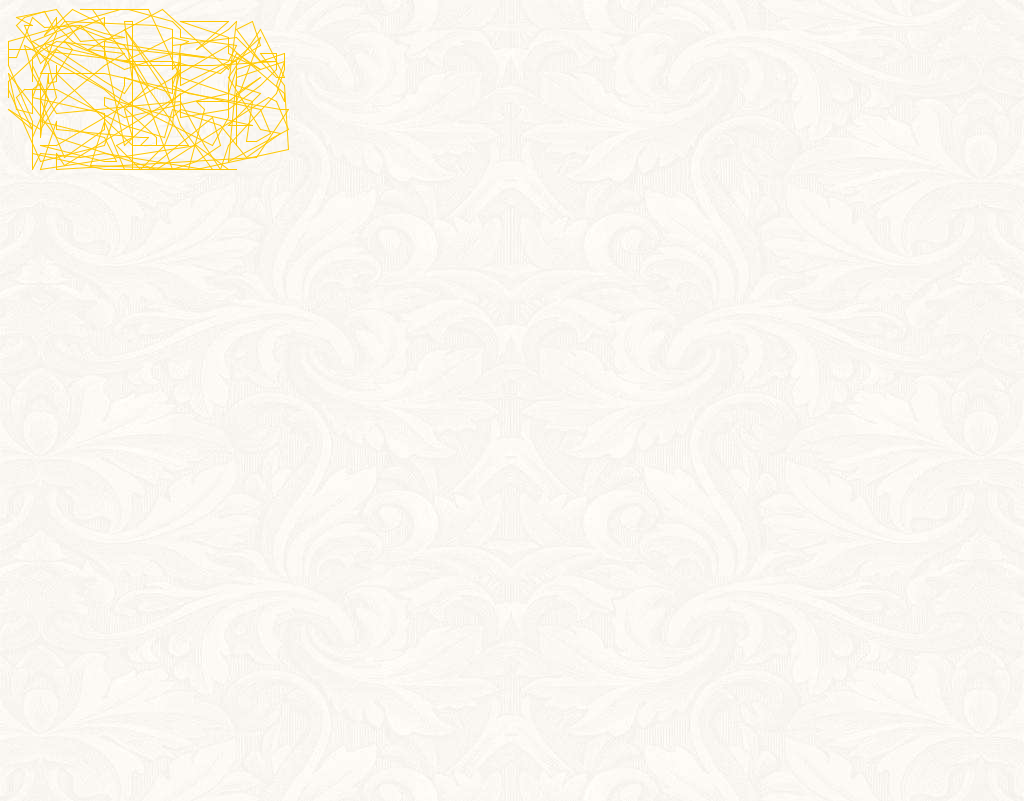
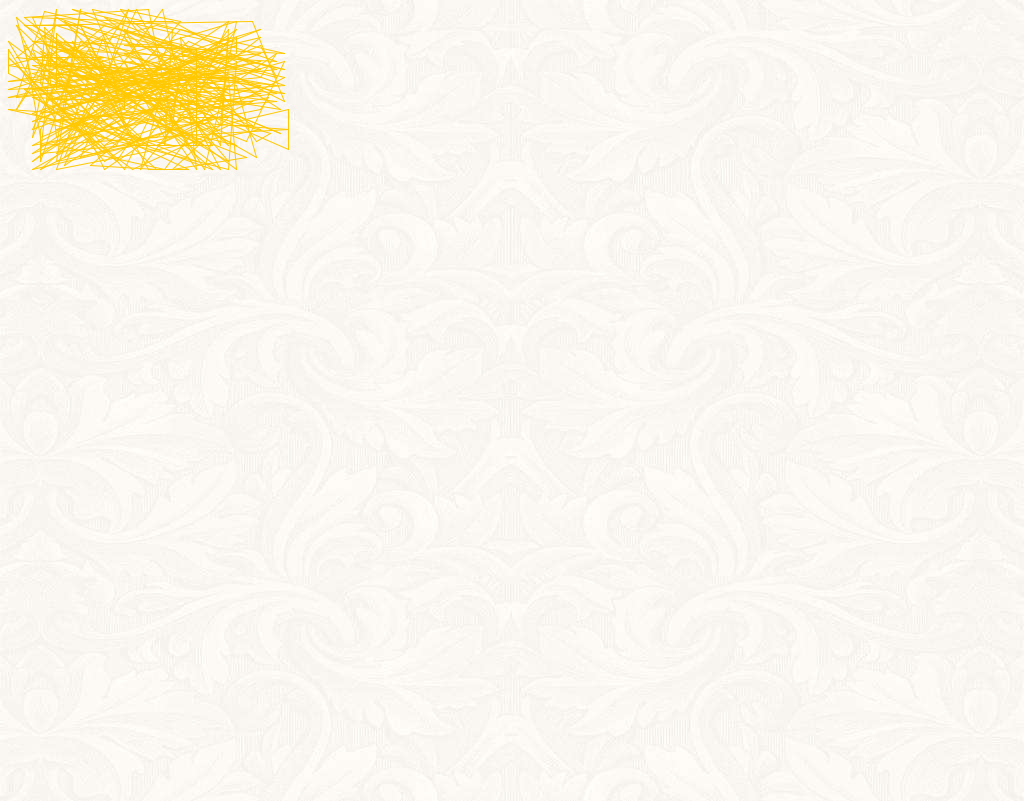
Simulated Annealing finished

Changed region(s): [[0.0, 0.0, 0.2812, 0.2185]]

diff --git a/src/com/rui/java/Algorithms/SimulatedAnnealing/SA_Three_Cooling_Schedules.java b/src/com/rui/java/Algorithms/SimulatedAnnealing/SA_Three_Cooling_Schedules.java
@@ -1,0 +1,68 @@
+package com.rui.java.Algorithms.SimulatedAnnealing;
+
+import com.rui.java.City;
+import com.rui.java.Route;
+
+import java.util.ArrayList;
+
+public class SA_Three_Cooling_Schedules {
+    public static final double CoolingRate = 0.999;
+    public static final double InitTemperature = 3000;
+    public static final double MIN_TEMP = 0.04;
+    public static final int MAX_ITERATION_IN_ONE_TEMPERATURE = 200;
+    double x = 1.001;
+
+    public Route shortestRoute_exponential_decay(Route currentRoute, String mode) {
+        System.out.println("init route:" + currentRoute.toString() + "| Route distance:" + currentRoute.calTotalDistance());
+        double temperature = InitTemperature;
+        while (true) {
+            for (int i = 0; i < MAX_ITERATION_IN_ONE_TEMPERATURE; i++) {
+                Route neighborRoute = getANeighborRoute(new Route(currentRoute));
+                double acceptProbability = annealingProbability(currentRoute, neighborRoute, temperature);
+                if (acceptProbability >= (Math.random())) {
+                    currentRoute = neighborRoute;
+                    System.out.printf("Find better instance   | ->move | Route distance: %7.2f | temperature: %7.2f \n", currentRoute.calTotalDistance(), temperature);
+                } else {
+                    //System.out.printf("Not a better instance  | ->Stay | Route distance: %7.2f | iteration  : %7d \n", currentRoute.calTotalDistance(), i);
+                }
+            }
+            if (temperature < MIN_TEMP) {
+                break;
+            }
+            if (mode.equals("Exponential")) {
+                temperature *= CoolingRate;
+            } else if (mode.equals("Liner")) {
+                temperature -= 0.1;
+            } else {
+                temperature -= Math.log(x);
+                x += 0.001;
+            }
+        }
+        System.out.println("May be the shortest distance : " + currentRoute.calTotalDistance());
+        return currentRoute;
+    }
+
+    public double annealingProbability(Route currentRoute, Route neighborRoute, Double temperature) {
+        double distanceChange = neighborRoute.calTotalDistance() - currentRoute.calTotalDistance();
+        if (distanceChange < 0.0) {
+            return 1.00;
+        } else {
+            return Math.exp(-distanceChange / temperature);
+        }
+    }
+
+    public Route getANeighborRoute(Route route) {
+        int cityOneIndex = 0;
+        int cityTwoIndex = 0;
+        while (cityOneIndex == cityTwoIndex) {
+            cityOneIndex = (int) (route.getCities().size() * Math.random());
+            cityTwoIndex = (int) (route.getCities().size() * Math.random());
+        }
+        City cityOne = route.getCities().get(cityOneIndex);
+        City cityTwo = route.getCities().get(cityTwoIndex);
+        route.getCities().set(cityOneIndex, cityTwo);
+        route.getCities().set(cityTwoIndex, cityOne);
+        return route;
+    }
+
+}

diff --git a/src/com/rui/java/Controller.java b/src/com/rui/java/Controller.java
@@ -1,9 +1,6 @@
 package com.rui.java;
 
-import com.rui.java.Algorithms.FirstAscentHillClimbing;
-import com.rui.java.Algorithms.HillClimbing;
-import com.rui.java.Algorithms.RandomAscentHillClimbing;
-import com.rui.java.Algorithms.SteepestHillClimbing;
+import com.rui.java.Algorithms.SimulatedAnnealing.SA_Three_Cooling_Schedules;
 import com.rui.java.Utils.test;
 
 import java.io.*;
@@ -31,10 +28,14 @@ public class Controller {
                 cities.add(city);
             }
             Route initRoute = new Route(cities);
-            Route shortestRoute_HillClimbing = new HillClimbing().shortestRoute(initRoute);
+            //Route shortestRoute_HillClimbing = new HillClimbing().shortestRoute(initRoute);
             //Route shortestRoute_SteepestHillClimbing = new SteepestHillClimbing().shortestRoute(initRoute);
             //Route shortestRoute_FirstAscentHillClimbing = new FirstAscentHillClimbing().shortestRoute(initRoute);
-            Route shortestRoute_RandomAscentHillClimbing = new RandomAscentHillClimbing().shortestRoute(initRoute);
+            //Route shortestRoute_RandomAscentHillClimbing = new RandomAscentHillClimbing().shortestRoute(initRoute);
+            Route SimulatedAnnealing_Exponential = new SA_Three_Cooling_Schedules().shortestRoute_exponential_decay(initRoute, "Exponential");
+            //Route SimulatedAnnealing_Liner = new SA_Three_Cooling_Schedules().shortestRoute_exponential_decay(initRoute, "Liner");
+            //Route SimulatedAnnealing_Logarithmic = new SA_Three_Cooling_Schedules().shortestRoute_exponential_decay(initRoute, "Logarithmic");
+            new test().Paint(SimulatedAnnealing_Exponential);
         } catch (Exception e) {
             e.printStackTrace();
         }

diff --git a/test/com/rui/java/myTest.java b/test/com/rui/java/myTest.java
@@ -1,6 +1,6 @@
 package com.rui.java;
 
-import com.rui.java.Algorithms.HillClimbing;
+import com.rui.java.Algorithms.HillClimbing.HillClimbing;
 import org.junit.Test;
 
 import java.util.ArrayList;

diff --git a/src/com/rui/java/Algorithms/HillClimbing/FirstAscentHillClimbing.java b/src/com/rui/java/Algorithms/HillClimbing/FirstAscentHillClimbing.java
@@ -1,4 +1,4 @@
-package com.rui.java.Algorithms;
+package com.rui.java.Algorithms.HillClimbing;
 
 import com.rui.java.City;
 import com.rui.java.Route;

diff --git a/src/com/rui/java/Algorithms/HillClimbing/HillClimbing.java b/src/com/rui/java/Algorithms/HillClimbing/HillClimbing.java
@@ -1,4 +1,4 @@
-package com.rui.java.Algorithms;
+package com.rui.java.Algorithms.HillClimbing;
 
 import com.rui.java.City;
 import com.rui.java.Route;

diff --git a/src/com/rui/java/Algorithms/HillClimbing/RandomAscentHillClimbing.java b/src/com/rui/java/Algorithms/HillClimbing/RandomAscentHillClimbing.java
@@ -1,4 +1,4 @@
-package com.rui.java.Algorithms;
+package com.rui.java.Algorithms.HillClimbing;
 
 import com.rui.java.City;
 import com.rui.java.Route;

diff --git a/src/com/rui/java/Algorithms/HillClimbing/SteepestHillClimbing.java b/src/com/rui/java/Algorithms/HillClimbing/SteepestHillClimbing.java
@@ -1,4 +1,4 @@
-package com.rui.java.Algorithms;
+package com.rui.java.Algorithms.HillClimbing;
 
 import com.rui.java.City;
 import com.rui.java.Route;
